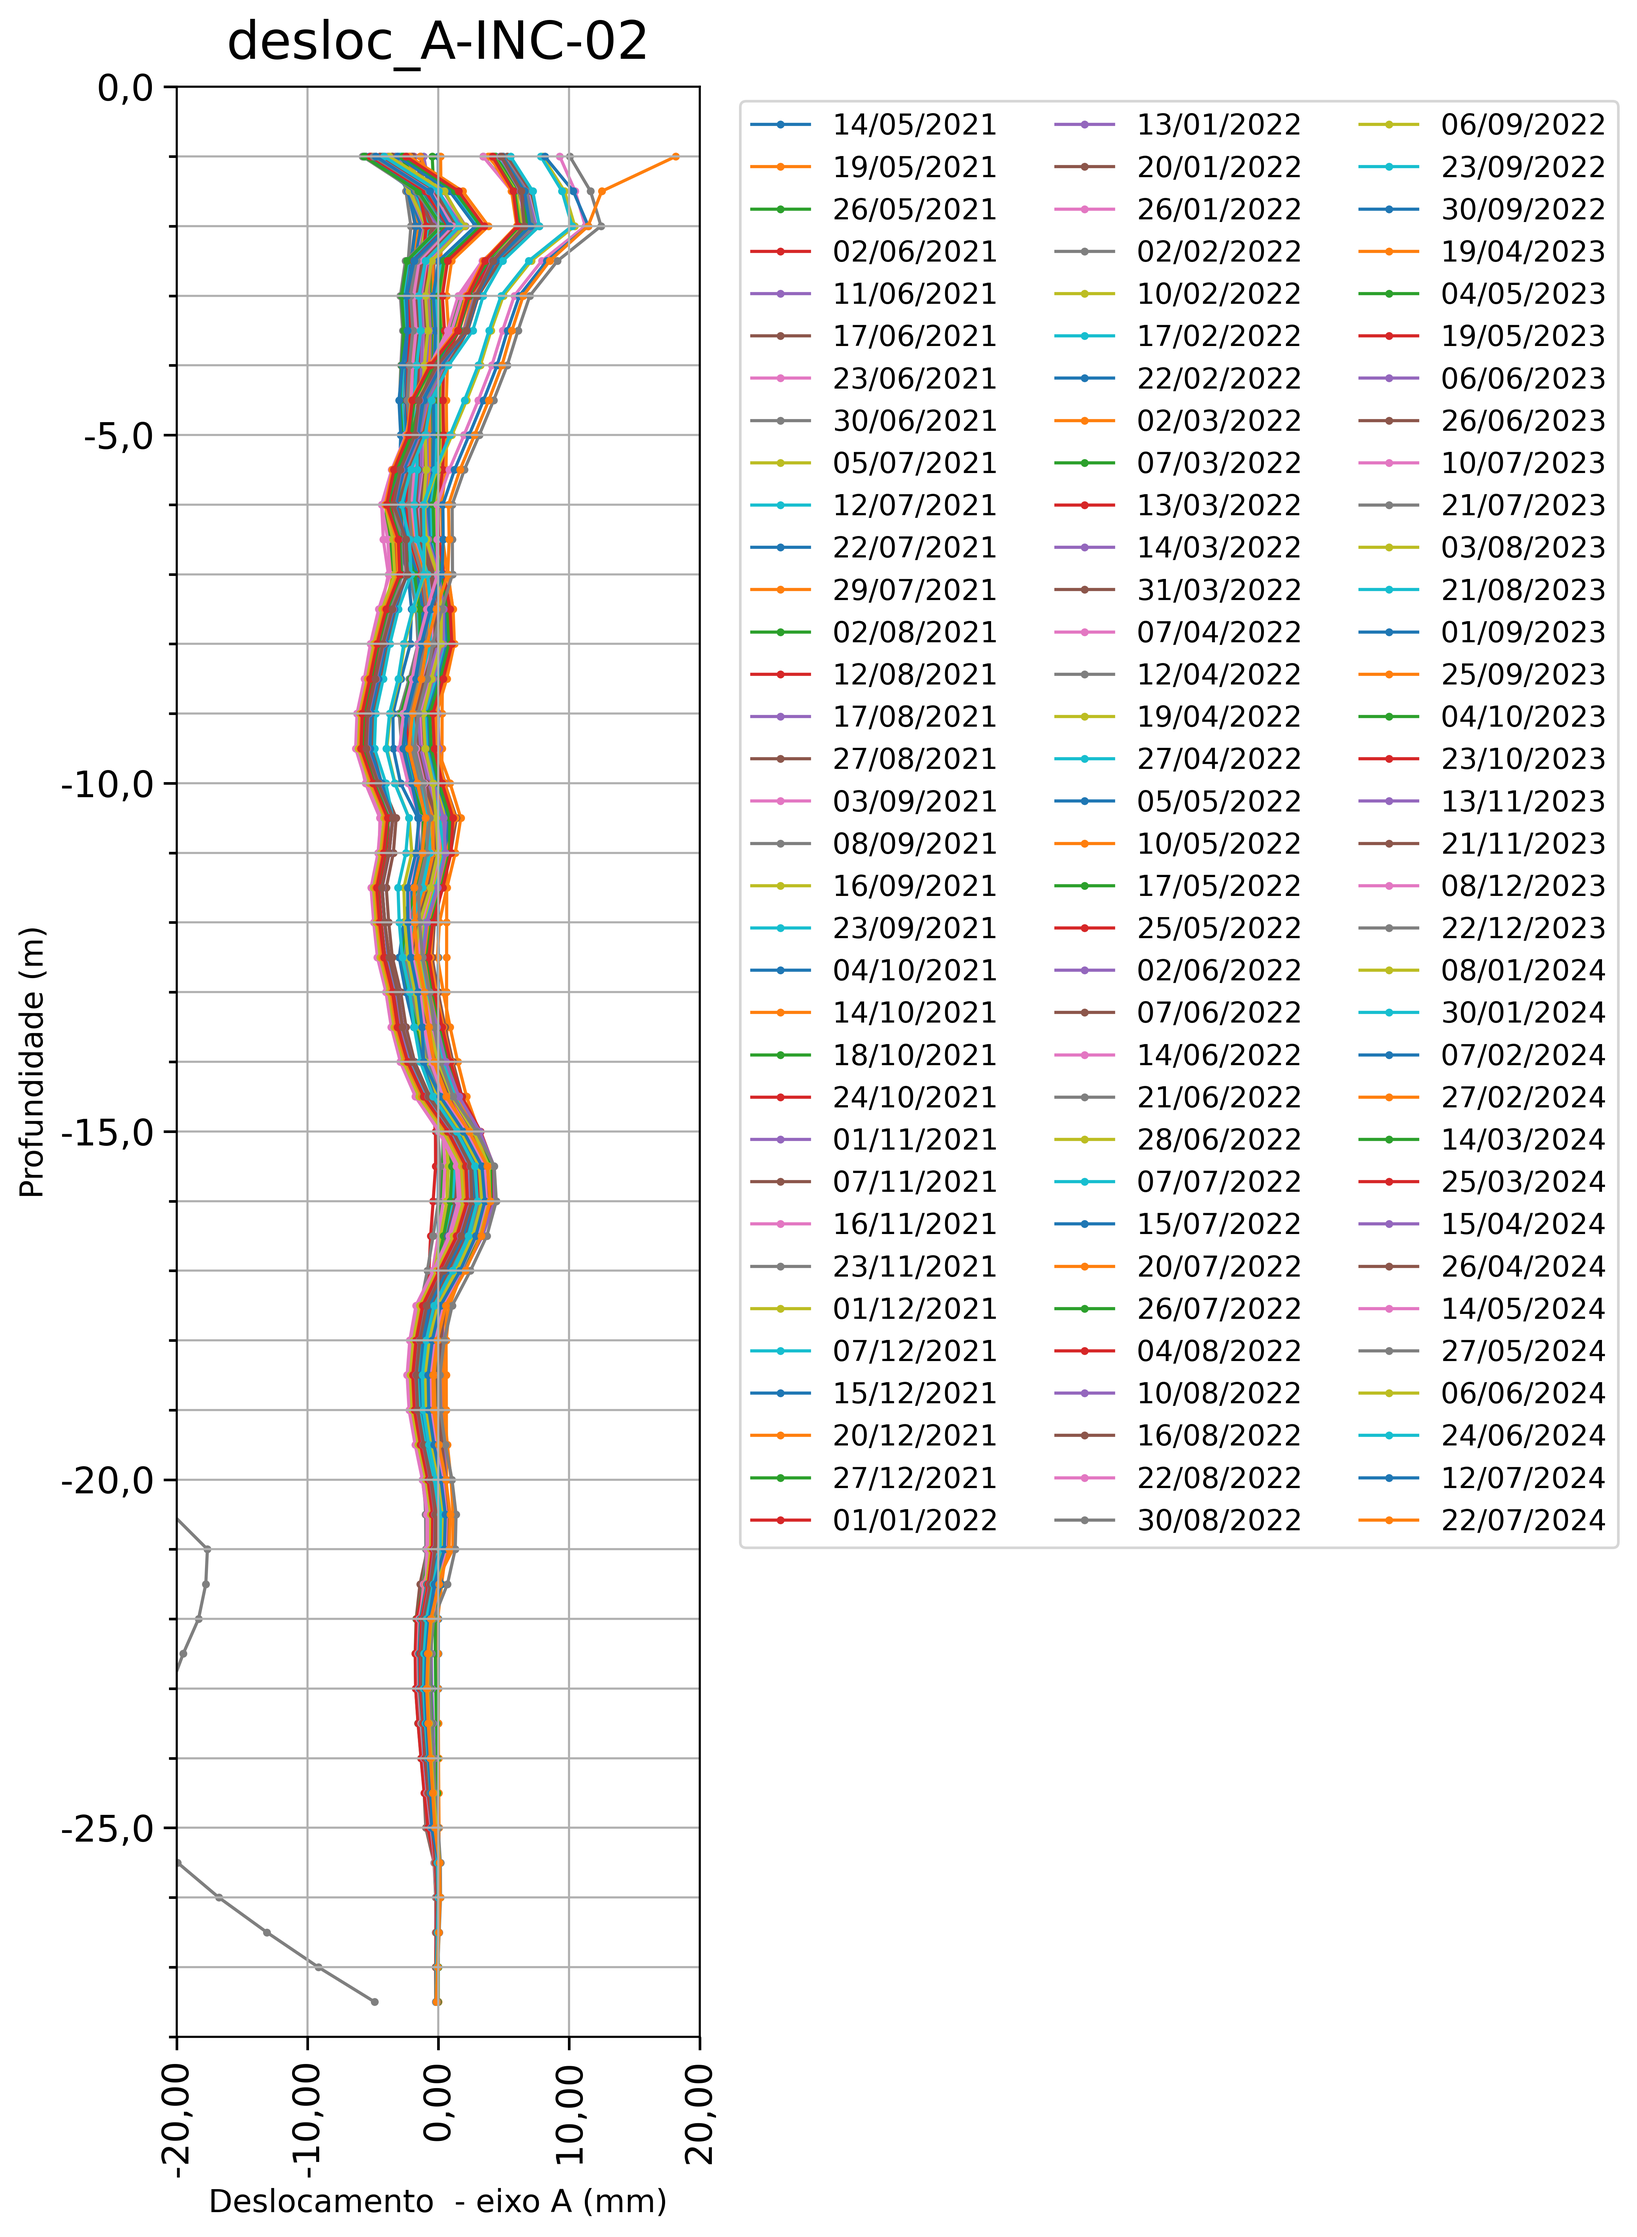
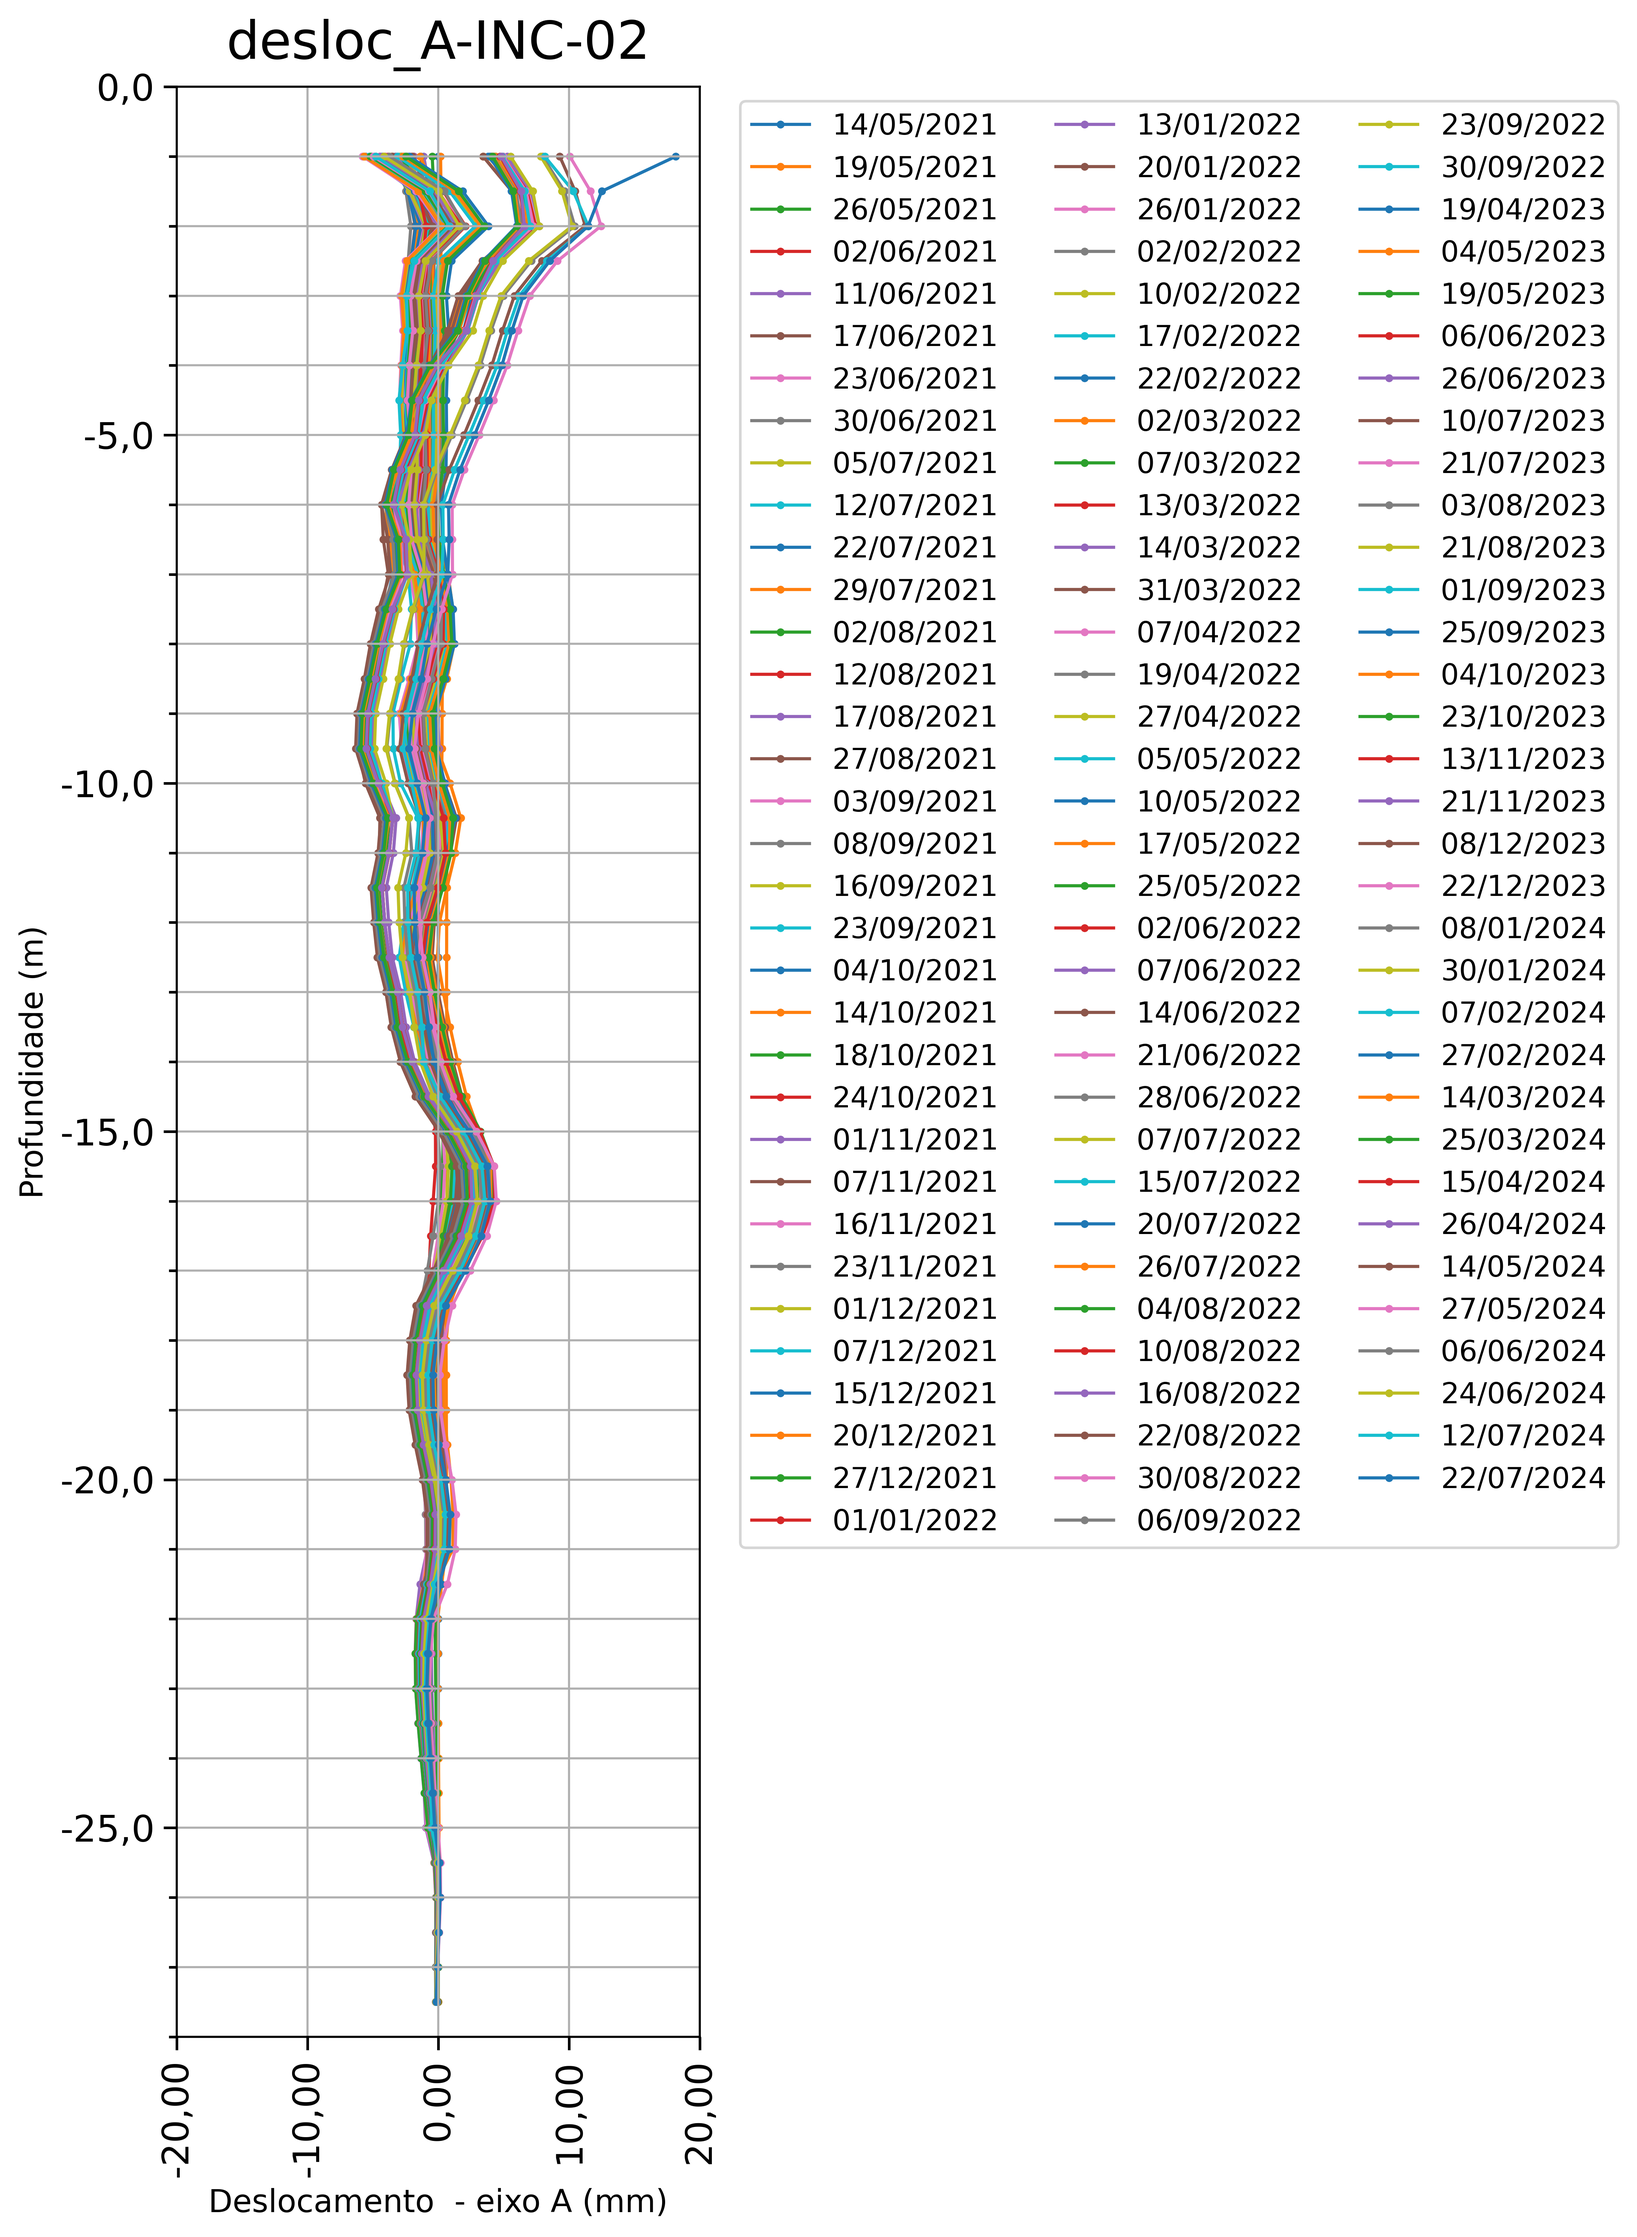
Add blacklist
Adicionei uma blacklist no dataTree com as datas para serem excluídas em cada inc e adicionar um print para logar as planilhas desconsideradas.

diff --git a/inclinometro.py b/inclinometro.py
@@ -42,12 +42,14 @@ dataTree = dict(
         incName = "INC-01",
         baseFile = "data/Modelo-INC01.xlsx",
         id_header = 16,
+        blacklist = [],
         depth = -46,
         deslocMax = 10.0
     ),
     inc002 = dict(
         incName = "INC-02",
         baseFile = "data/Modelo-INC02.xlsx",
+        blacklist = ["12/04/2022"],
         id_header = 16,
         depth = -28,
         deslocMax = 20.0
@@ -55,6 +57,7 @@ dataTree = dict(
     inc002_2 = dict(
         incName = "INC-02",
         baseFile = "data/Modelo-INC02-2.xlsx",
+        blacklist = [],
         id_header = 16,
         depth = -31,
         deslocMax = 1.5
@@ -83,6 +86,7 @@ lista_inc = [
 for inc in lista_inc:
     
     baseFile = dataTree[inc]["baseFile"]
+    blacklist = dataTree[inc]["blacklist"]
     id_header = dataTree[inc]["id_header"]
     depth = dataTree[inc]["depth"]
     deslocMax = dataTree[inc]["deslocMax"]
@@ -106,6 +110,9 @@ for inc in lista_inc:
             X = df[axisX]
             Y = df[axisY]
             nomeSerie = cabecalho.iloc[6,1]
+            if (str(nomeSerie) in blacklist) or ("desconsiderar" in nomePlanilha.lower()):
+                print(f"Planilha '{nomePlanilha}' desconsiderada.")
+                continue
             serie = Serie(X,Y,label=nomeSerie,
                           setup=dict(markersize=2,marker="o",linewidth=1.2,alpha=alpha),
                           showLegend=True)
